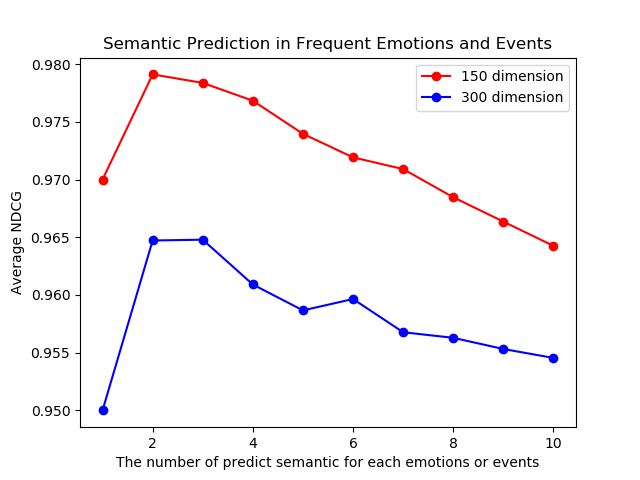
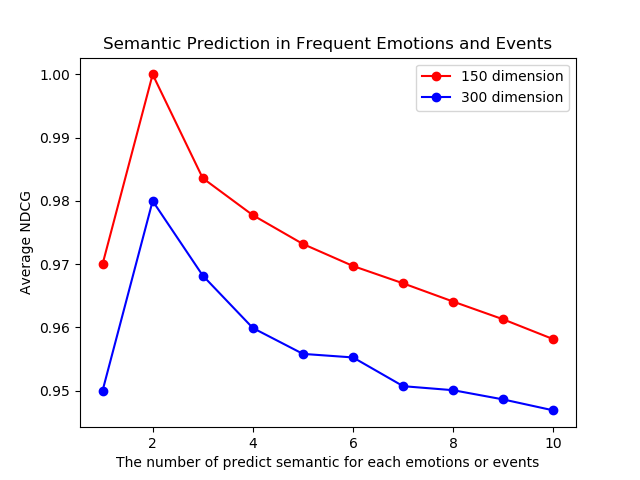
experiment of knowledge base threshold and add test.py

diff --git a/knowledge_base/knowledge_base_producer.py b/knowledge_base/knowledge_base_producer.py
@@ -1,92 +1,122 @@
 # -*- coding: utf-8 -*
 from word2vec import Word2Vec as w2v
 import codecs
+import matplotlib.pyplot as plt
+import os
 
-threshold = 0.8
+# 判斷是否有此資料夾, 沒有的話就建立它吧
+def createFolder(directory):
+	try:
+		if not os.path.exists(directory):
+			os.makedirs(directory)
+	except OSError:
+		print ('Error: Creating directory. ' +  directory)
+
+thresholds = [0.8, 0.825, 0.85, 0.875, 0.9, 0.925, 0.95, 0.975]
+# thresholds = [0.95]
 # load entity2vec model
 t = w2v()
 t.train_file_setting("segmentation.txt", "result")
 t.load_model()
 
-# 將 event, time 和 location candidate 辭典詞彙取出
-event_candidates = []
-time_candidates = []
-location_candidates = []
-storyline_event_candidate = []
-with codecs.open('dict_observation/event.txt', 'r', encoding = 'utf-8') as event_file:
-	for line in event_file.readlines():
-		event_candidates.append(line.replace('\r\n', ''))
-with codecs.open('dict_observation/time.txt', 'r', encoding = 'utf-8') as time_file:
-	for line in time_file.readlines():
-		time_candidates.append(line.replace('\r\n', ''))
-with codecs.open('dict_observation/location.txt', 'r', encoding = 'utf-8') as location_file:
-	for line in location_file.readlines():
-		location_candidates.append(line.replace('\r\n', ''))
-with codecs.open('dict_observation/storyline_event.txt', 'r', encoding = 'utf-8') as storyline_event_file:
-	for line in storyline_event_file.readlines():
-		storyline_event_candidate.append(line.replace('\r\n', ''))
-
 # 判斷 character_object 與 event, time 和 location candidate 的 similarity > 0.5 在取出成正式辭典
 # 1. 只跑 this word not in vocabulary 表示 character_object 不在 corpus 中
 # 2. 只跑  not in storyline_event candidates! 表示 character_object 有在 corpus 中但 event_candidate 不在 storyline_event 中
 # 3. 如果在加 this word not in vocabulary 表示 event_candidate 不在 corpus 中
-event = set()
-time = set()
-location = set()
-with codecs.open('ehownet/character_object.list', 'r', encoding = 'utf-8') as character_object_file:
-	for character_object in character_object_file.readlines():
-		character_object = character_object.replace('\r\n', '')
-		print('#'*50)
-		print(character_object)
-		for event_candidate in event_candidates:
-			print(event_candidate)
-			try:
-				# 用來判斷是否有與 storyline event candidates 中任何一個大於 threshold 詞彙
-				flag = False
-				if t.terms_similarity(character_object, event_candidate) >= threshold:
-					for storyline_event in storyline_event_candidate:
-						try:
-							if t.terms_similarity(event_candidate, storyline_event) >= threshold:
-								flag = True
-								break
-						except:
-							print(storyline_event + " word(storyline_event) not in vocabulary!")
-					if flag:
-						event.add(event_candidate)
-			except:
-				print(character_object + "or" + event_candidate + " word(character_object or event_candidate) not in vocabulary!")
-		# 增加效率用
-		event_candidates = [event_candidate for event_candidate in event_candidates if event_candidate not in event]
-		print('-'*50)
-		for time_candidate in time_candidates:
-			print(time_candidate)
-			try:
-				if t.terms_similarity(character_object, time_candidate) >= threshold:
-					time.add(time_candidate)
-			except:
-				print(character_object + "or" + time_candidate + " word(character_object or time_candidate) not in vocabulary!")
-		# 增加效率用
-		time_candidates = [time_candidate for time_candidate in time_candidates if time_candidate not in time]
-		print('-'*50)
-		for location_candidate in location_candidates:
-			print(location_candidate)
-			try:
-				if t.terms_similarity(character_object, location_candidate) >= threshold:
-					location.add(location_candidate)
-			except:
-				print(character_object + "or" + location_candidate + " word(character_object or location_candidate) not in vocabulary!")
-		# 增加效率用
-		location_candidates = [location_candidate for location_candidate in location_candidates if location_candidate not in location]
-		print('-'*50)
+# 用來將分數儲存起來
+scores = []
+experiment_base = []
+storyline_event_candidate = []
+with codecs.open('experiment_base.txt', 'r', encoding = 'utf-8') as experiment_file:
+	for line in experiment_file.readlines():
+		experiment_base.append(line.replace('\r\n', ''))
+with codecs.open('dict_observation/storyline_event.txt', 'r', encoding = 'utf-8') as storyline_event_file:
+	for line in storyline_event_file.readlines():
+		storyline_event_candidate.append(line.replace('\r\n', ''))
+for threshold in thresholds:
+	# 將 event, time 和 location candidate 辭典詞彙取出
+	event_candidates = []
+	time_candidates = []
+	location_candidates = []
+	with codecs.open('dict_observation/event.txt', 'r', encoding = 'utf-8') as event_file:
+		for line in event_file.readlines():
+			event_candidates.append(line.replace('\r\n', ''))
+	with codecs.open('dict_observation/time.txt', 'r', encoding = 'utf-8') as time_file:
+		for line in time_file.readlines():
+			time_candidates.append(line.replace('\r\n', ''))
+	with codecs.open('dict_observation/location.txt', 'r', encoding = 'utf-8') as location_file:
+		for line in location_file.readlines():
+			location_candidates.append(line.replace('\r\n', ''))
+	event = set()
+	time = set()
+	location = set()
+	with codecs.open('ehownet/character_object.list', 'r', encoding = 'utf-8') as character_object_file:
+		for character_object in character_object_file.readlines():
+			character_object = character_object.replace('\r\n', '')
+			print('#'*50)
+			print(character_object)
+			for event_candidate in event_candidates:
+				print(event_candidate)
+				try:
+					# 用來判斷是否有與 storyline event candidates 中任何一個大於 threshold 詞彙
+					flag = False
+					if t.terms_similarity(character_object, event_candidate) >= threshold:
+						for storyline_event in storyline_event_candidate:
+							try:
+								if t.terms_similarity(event_candidate, storyline_event) >= threshold:
+									flag = True
+									break
+							except:
+								print(storyline_event + " word(storyline_event) not in vocabulary!")
+						if flag:
+							event.add(event_candidate)
+				except:
+					print(character_object + "or" + event_candidate + " word(character_object or event_candidate) not in vocabulary!")
+			# 增加效率用
+			event_candidates = [event_candidate for event_candidate in event_candidates if event_candidate not in event]
+			print('-'*50)
+			for time_candidate in time_candidates:
+				print(time_candidate)
+				try:
+					if t.terms_similarity(character_object, time_candidate) >= threshold:
+						time.add(time_candidate)
+				except:
+					print(character_object + "or" + time_candidate + " word(character_object or time_candidate) not in vocabulary!")
+			# 增加效率用
+			time_candidates = [time_candidate for time_candidate in time_candidates if time_candidate not in time]
+			print('-'*50)
+			for location_candidate in location_candidates:
+				print(location_candidate)
+				try:
+					if t.terms_similarity(character_object, location_candidate) >= threshold:
+						location.add(location_candidate)
+				except:
+					print(character_object + "or" + location_candidate + " word(character_object or location_candidate) not in vocabulary!")
+			# 增加效率用
+			location_candidates = [location_candidate for location_candidate in location_candidates if location_candidate not in location]
+			print('-'*50)
+	count = 0
+	for experiment in experiment_base:
+		if experiment in event or experiment in time or experiment in location:
+			count += 1
+	scores.append(count/len(experiment_base))
+	# 將正式辭典存起來
+	with codecs.open('event.list', 'w', encoding='utf8') as event_file:
+		event_file.write('\n'.join(event))
 
-# 將正式辭典存起來
-with codecs.open('event.list', 'w', encoding='utf8') as event_file:
-	event_file.write('\n'.join(event))
+	with codecs.open('time.list', 'w', encoding='utf8') as time_file:
+		time_file.write('\n'.join(time))
 
-with codecs.open('time.list', 'w', encoding='utf8') as time_file:
-	time_file.write('\n'.join(time))
+	with codecs.open('location.list', 'w', encoding='utf8') as location_file:
+		location_file.write('\n'.join(location))
 
-with codecs.open('location.list', 'w', encoding='utf8') as location_file:
-	location_file.write('\n'.join(location))
-
-
+print(scores)
+plt.title("Experiment of Knowledge Base Threshold")
+plt.xlabel("The value of threshold")
+plt.ylabel("score")	   
+plt.plot(thresholds, scores, "-o", color = 'g', label = "basic knowledge")# 畫出平均數值	
+plt.legend(loc = "best")
+# save image
+createFolder('./image/')
+plt.savefig('image/knowledge_base_threshold_experiment.png')
+plt.close()

diff --git a/algorithm_analysis and word_embedding/main.py b/algorithm_analysis and word_embedding/main.py
@@ -11,7 +11,7 @@ import json
 from sklearn import preprocessing
 
 def main():
-	# vector_training()
+	vector_training()
 	# save_vector()
 	# relationship_model_training()
 	# scenario_model_training()
@@ -37,9 +37,9 @@ def vector_training():
 		t.write_file(result[0], append = True)
 	t.train()
 	t.load_model()
-	print(t.term_ranking_in_corpus("母親", 50))
+	print(t.term_ranking_in_corpus("教師節", 50))
 	print(t.term_to_vector("爸爸"))
-	print(t.terms_similarity("媽媽", "母親節"))
+	print(t.terms_similarity("母親", "母親節"))
 	print(1 - t.vectors_similarity(t.term_to_vector("在一起"), t.term_to_vector("過甜蜜")))
 
 # 將向量存入資料庫(For Articles Vector and Movies Vector) 
@@ -200,6 +200,15 @@ def save_vector():
 		# val = (article_id, relationship_add_sum, relationship_hadamard_sum, str(list(relationship_add_concatenate)), str(list(relationship_average_concatenate)), str(list(relationship_hadamard_concatenate)), scenario_add_sum, scenario_hadamard_sum, str(list(scenario_add_concatenate)), str(list(scenario_average_concatenate)), str(list(scenario_hadamard_concatenate)), sum_of_vec)
 		sql = "INSERT INTO articles_vector (id, relationship_entity_add_concatenate_vec, relationship_entity_average_concatenate_vec, scenario_entity_add_concatenate_vec, scenario_entity_average_concatenate_vec, sum_of_vec) VALUES (%s, %s, %s, %s, %s, %s)"
 		val = (article_id, str(list(relationship_add_concatenate)), str(list(relationship_average_concatenate)), str(list(scenario_add_concatenate)), str(list(scenario_average_concatenate)), sum_of_vec)
+		# 過濾 relationship 非 7 且 vector element 皆為 0, 也就是不訓練
+		'''cursor.execute("SELECT relationship_type FROM articles Where id ==" + str(article_id) + " and relationship_type !=''")
+		relationship_type = cursor.fetchone()
+		relationship_type = relationship_type[0]
+		if relationship_type != '7':
+			print(np.reshape(relationship_average_concatenate, (5, dimension)))
+			if np.max(relationship_average_concatenate) == 0.0 and np.min(relationship_average_concatenate) == 0.0:
+				print(article_id)
+				continue'''
 		cursor.execute(sql, val)
 		db.commit()
 
@@ -213,6 +222,10 @@ def save_vector():
 		event = result[3]
 		storyline_ner = result[4]
 		print(movie_id)
+		# 如果 emotion 和 event 皆為空就不儲存了(也就是 vector element 皆為 0, 不訓練)
+		if emotion == "" and event == "":
+			continue
+		# 之後當成 baseline 的向量
 		sum_of_vec = np.zeros(dimension)
 		for storyline in storyline_ner.split(" "):
 			if storyline != "":

diff --git a/algorithm_analysis and word_embedding/evaluation.py b/algorithm_analysis and word_embedding/evaluation.py
@@ -39,6 +39,7 @@ class Evaluation:
         r = np.asfarray(r)[:k]
         if r.size:
             if method == 0:
+                # arange 主要用來產生數組
                 return r[0] + np.sum(r[1:] / np.log2(np.arange(2, r.size + 1)))
             elif method == 1:
                 return np.sum(r / np.log2(np.arange(2, r.size + 2)))
@@ -74,6 +75,7 @@ class Evaluation:
             Normalized discounted cumulative gain
         """
         # print("sorted:" + str(sorted(r, reverse=True)))
+        # 排完序最理想的結果分數
         dcg_max = self.dcg_at_k(sorted(r, reverse=True), k, method)
         # print("dcg_max:" + str(dcg_max))
         if not dcg_max:
@@ -89,8 +91,7 @@ class Evaluation:
         for rank_max in range(1, len(r[0]) + 1):
             score = []
             for data in r:
-                score.append(self.ndcg_at_k(data[:rank_max], rank_max, method = 1))
-            # 全部分數加起來在平均
+                score.append(self.ndcg_at_k(data[:rank_max], rank_max, method = 0))
             scores.append(reduce(lambda x, y: x + y, score) / len(score))
         return scores
 
@@ -101,7 +102,6 @@ class Evaluation:
             score = []
             for data in r:
                 score.append(data[rank_idx])
-            # 全部分數加起來除上總分
             scores.append(reduce(lambda x, y: x + y, score) / (len(score)*max_score))
         return scores
 
@@ -115,5 +115,5 @@ if __name__ == "__main__":
     # print(e.ndcg_at_k([0,1,1,1],6, method=1))
     # print(e.ndcg_at_k([2,1,1,1,1,0,1,0],5, method=1))
     # print(e.ndcg_at_k([2,1,1,1,1],5, method=1))
-    print("Average NDCG Result:" + str(e.average_ndcg([[0, 2, 3, 0, 0, 1, 2, 2, 3, 0],[2, 1, 1, 0, 0, 1, 2, 2, 3, 0],[3, 2, 3, 0, 0, 1, 2, 2, 3, 0]])), end = '\n\n')
+    print("Average NDCG Result:" + str(e.average_ndcg([[1, 2, 3, 0, 0, 1, 2, 2, 3, 0],[2, 0, 1, 0, 0, 1, 2, 2, 3, 0],[3, 2, 3, 0, 0, 1, 2, 2, 3, 0]])), end = '\n\n')
     print("Average Precision Result:" + str(e.average_precision([[3, 2, 3, 1, 0, 1, 2, 2, 3, 0],[2, 1, 1, 0, 0, 1, 2, 2, 3, 0],[3, 2, 3, 0, 0, 1, 2, 2, 3, 0]], 3)))

diff --git a/RecommenderSystem/test/NERMovies.java b/RecommenderSystem/test/NERMovies.java
@@ -19,10 +19,10 @@ public class NERMovies {
         // 將 Rule 寫入
         ReadRoleDictionary readThematicRolePOSPairDictionary = new ReadRoleDictionary();
         readThematicRolePOSPairDictionary.setRoleDictionary();
-        // 讀取資料庫資料 3722 =700 183
+        // 讀取資料庫資料 3722 =922 195
         MysqlDatabaseController mysqlDatabaseController = new MysqlDatabaseController();
         GeneralFeaturesExtractor generalFeaturesExtractor = new GeneralFeaturesExtractor();
-        for (int id = 1; id <= 3722; id++) {
+        for (int id = 1; id <= 922; id++) {
             mysqlDatabaseController.execDelete(DatabaseConstant.MOVIES_NER, DatabaseConstant.ID + "=" + id);
             String storylineParser = "";
             ResultSet articleResult = mysqlDatabaseController.execSelect(

diff --git a/algorithm_analysis and word_embedding/experiment.py b/algorithm_analysis and word_embedding/experiment.py
@@ -9,10 +9,10 @@ from evaluation import Evaluation
 import matplotlib.pyplot as plt
 
 def main():
-	'''# (1)Save Ranking Data
+	# (1)Save Ranking Data
 	db = MySQLdb.connect(host = "localhost", user = "root", passwd = "wmmkscsie", db = "recommender_system", charset = "utf8")
 	cursor = db.cursor()
-	cursor.execute("SELECT emotion, event FROM articles_ner Where id >= 1 and id <= 221269")
+	'''cursor.execute("SELECT emotion, event FROM articles_ner Where id >= 1 and id <= 221269")
 	results = cursor.fetchall()
 	emotion_dic = {}
 	event_dic = {}

diff --git a/algorithm_analysis and word_embedding/test.py b/algorithm_analysis and word_embedding/test.py
@@ -1,0 +1,11 @@
+import numpy as np
+
+# 利用 numpy 判斷 array 是不是皆為 0
+vector = np.zeros(750)
+one = np.ones(0)
+vector = np.append(vector, one)
+print(np.reshape(vector, (5, 150)))
+if np.max(vector, 0) == 0.0 and np.min(vector, 0) == 0:
+	print("zero element")
+print(np.max(vector))
+print(np.min(vector))
